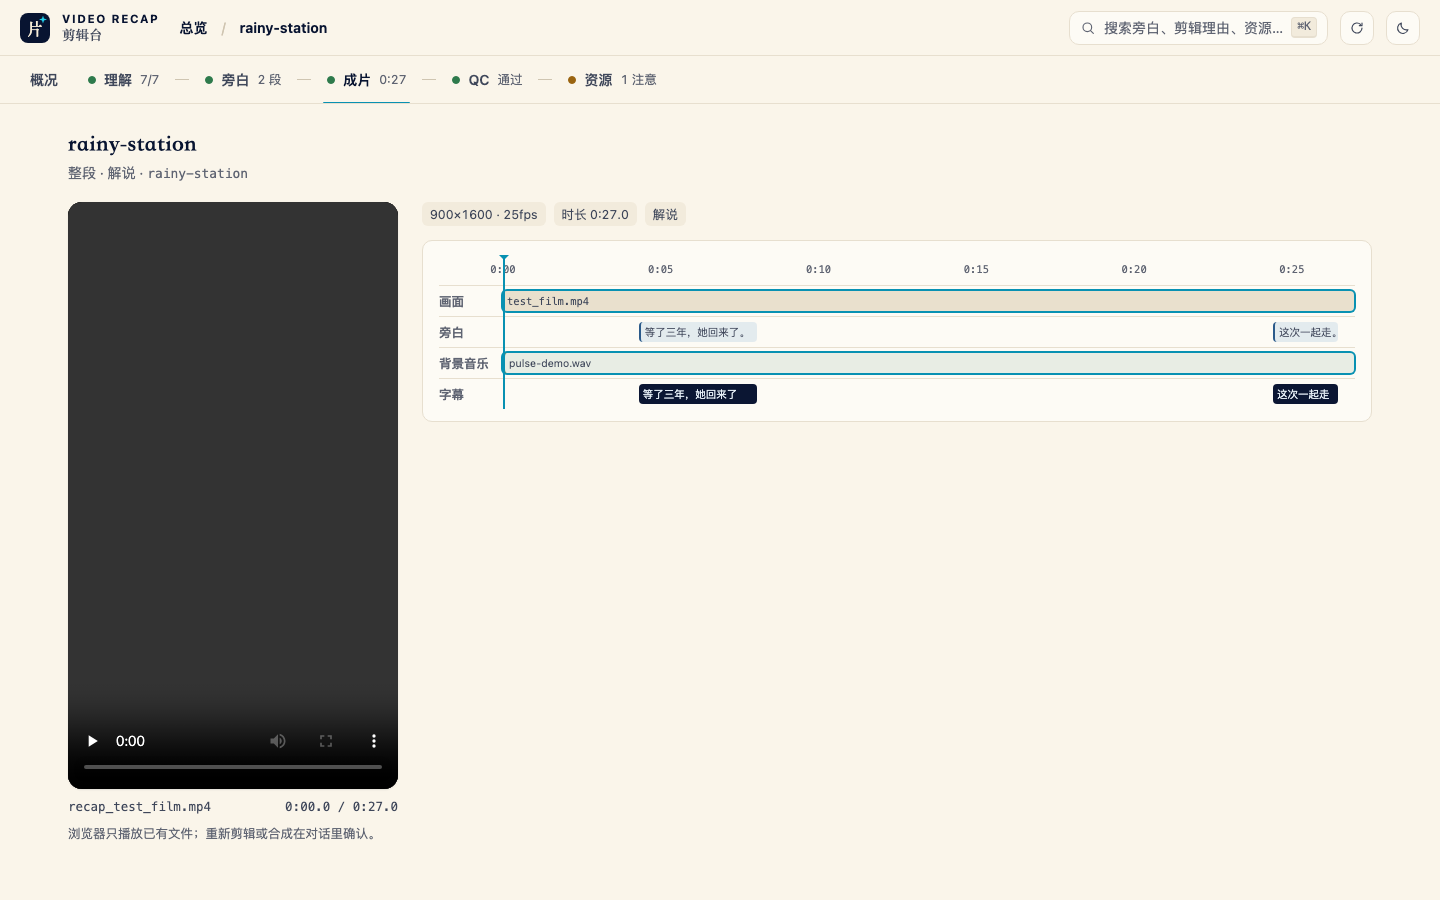
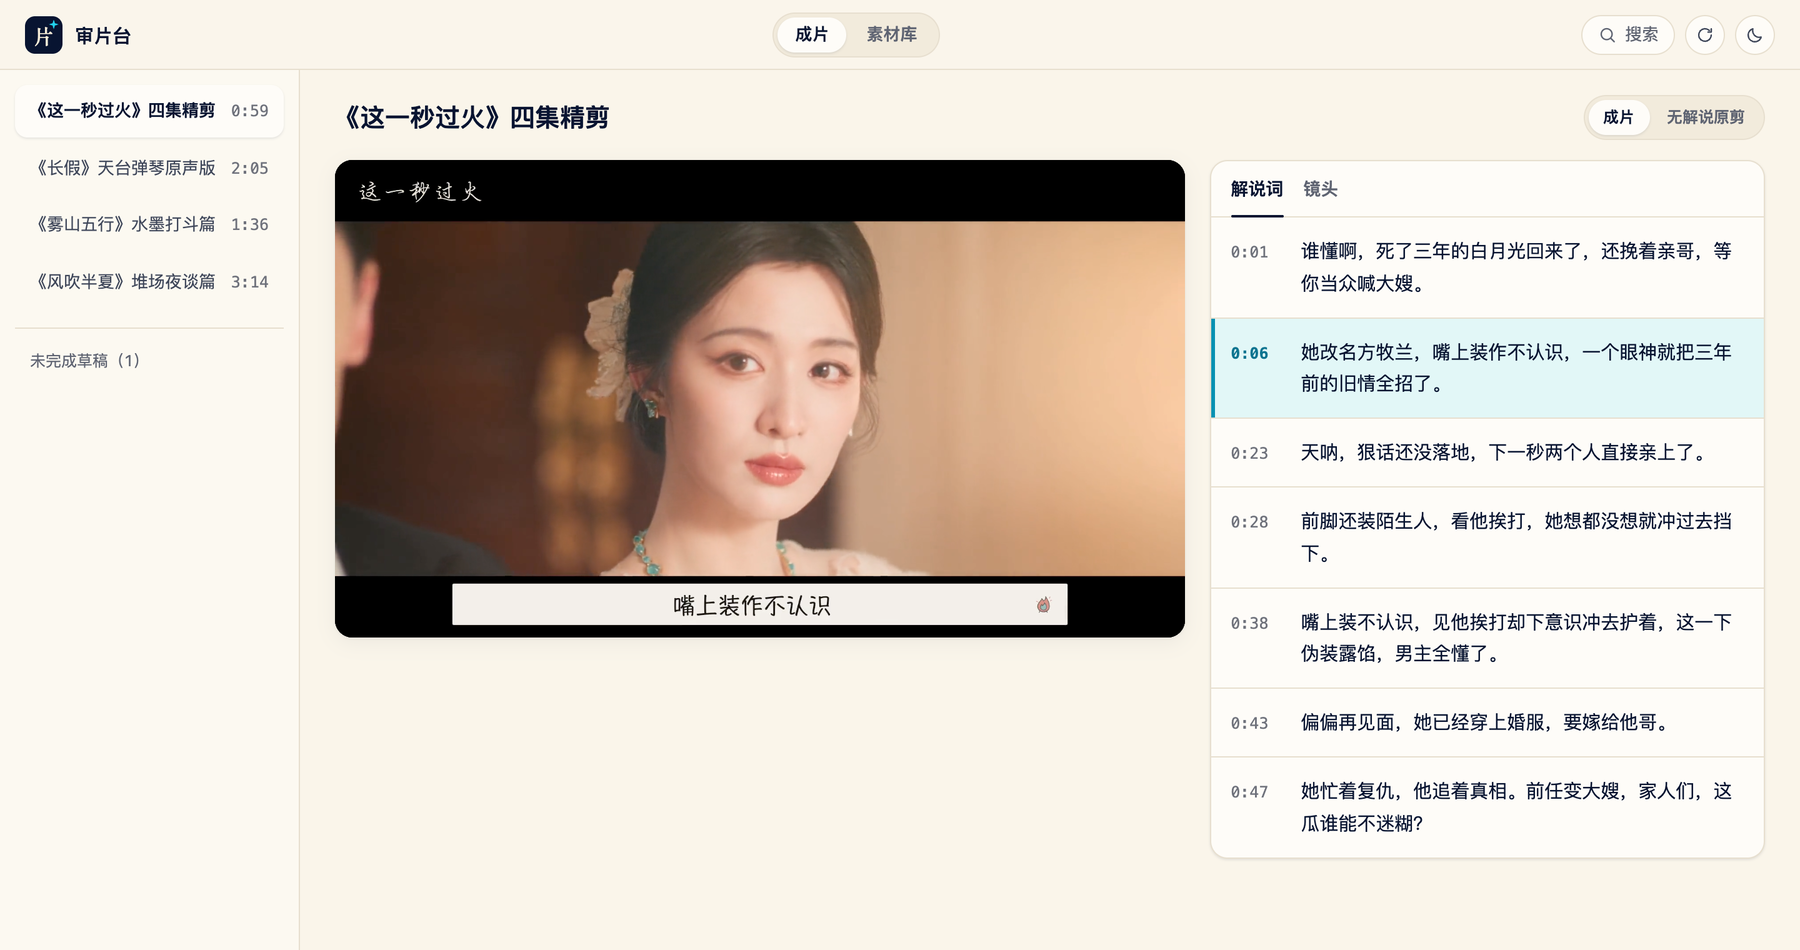
docs: 用真实成片与五维素材库重截 README 审片台配图 (#201)

diff --git a/README.en.md b/README.en.md
@@ -395,17 +395,17 @@ template for 1080x1920 for me to adopt, then render this series with /path/to/se
 
 Resources, templates and sample films are JSON records in your own directory; licence and "adopted" status are only ever set by you. A binding that conflicts with an explicit setting, or a template whose canvas differs from the output, stops the run before voicing. Each run writes `work_dir/resource_lock.json`, listing what it actually used and whether the licences are clear. Format: [resource library, templates and samples](skills/video-recap/references/resource-library.md).
 
-**Browse projects, runs and the library in a local page (read-only):**
+**Review finished films and browse the studio library locally (read-only):**
 
 ```text
-Open the local dashboard for /path/to/projects so I can see run progress, finished videos and the library.
+Open the local dashboard for /path/to/projects so I can review finished videos, script/shot sync and the studio library.
 ```
 
-The dashboard is read-only and listens on loopback only; wherever something needs doing it gives you one sentence to paste back into the conversation.
+The screening dashboard is strictly read-only on `127.0.0.1` (`GET` and `HEAD` only): switch between finished recaps and pure cuts with click-to-seek narration and shot lists, and preview source series, BGM, SFX, voices, packaging/subtitle styles and reference samples in one place.
 
-<img alt="Dashboard film view: player with picture, narration, BGM and subtitle tracks" src="docs/dashboard-film.png" width="100%">
+<img alt="Screening dashboard film view: finished recap and pure-cut player with synced narration and shot list" src="docs/dashboard-film.png" width="100%">
 
-<img alt="Dashboard template view: canvas schematics for packaging and subtitle style, parameter table with provenance" src="docs/dashboard-templates.png" width="100%">
+<img alt="Screening dashboard library view: five-category studio browser with portrait/landscape packaging, subtitle styles and reference sample preview" src="docs/dashboard-templates.png" width="100%">
 
 **Proofread original-dialogue captions (`「」`):** put verified output-timeline lines into `work_dir/original_subtitles.json` (`[{"start": s, "end": s, "text": "line"}]`) so clean original-audio moments carry accurate `「」` captions without coarse ASR guesswork.
 

diff --git a/README.md b/README.md
@@ -380,17 +380,17 @@ flowchart LR
 
 资源、模板和参考样片全部以本地 JSON 管理，版权与采纳状态只能由你本人确认；每次合成后生成的 `work_dir/resource_lock.json` 会完整记录本轮实际使用的资源与授权状态（详见[资源库、模板与样片](skills/video-recap/references/resource-library.md)）。
 
-**在浏览器打开本地只读剪辑台看板：**
+**在浏览器打开本地只读审片台：**
 
 ```text
-在本机打开剪辑台，看看 /path/to/projects 下面的运行进度、成片和资源库。
+在本机打开审片台，看看 /path/to/projects 下面的成片、解说词镜头对照和素材库。
 ```
 
-看板仅监听 `127.0.0.1` 且严格只读，需要调整任何参数时可一键复制指令粘贴回 Agent 对话框。
+审片台仅监听 `127.0.0.1` 且严格只读（仅响应 `GET` 与 `HEAD`），支持成片与无解说原剪切换播放、解说词与镜头时间轴点击跳转，以及原片剧目、配乐、音效、音色、样式与样片五维素材库预览。
 
-<img alt="剪辑台成片视图：播放器与画面、旁白、背景音乐、字幕四轨时间线" src="docs/dashboard-film.png" width="100%">
+<img alt="审片台成片视图：成片与无解说原剪切换播放、解说词与镜头时间轴同步对照" src="docs/dashboard-film.png" width="100%">
 
-<img alt="剪辑台模板视图：包装图层与字幕样式的画布示意、带来源标记的参数表" src="docs/dashboard-templates.png" width="100%">
+<img alt="审片台素材库视图：五维分类检索与竖横屏画面包装、字幕样式及参考样片预览" src="docs/dashboard-templates.png" width="100%">
 
 **精校原声留白字幕：** 当原片角色在旁白留白处开口对白时，由 Agent 核实后写入 `work_dir/original_subtitles.json`（`[{"start": s, "end": s, "text": "台词"}]`），即可在成片与剪映草稿中精准呈现带 `「」` 引号的原声台词。
 
